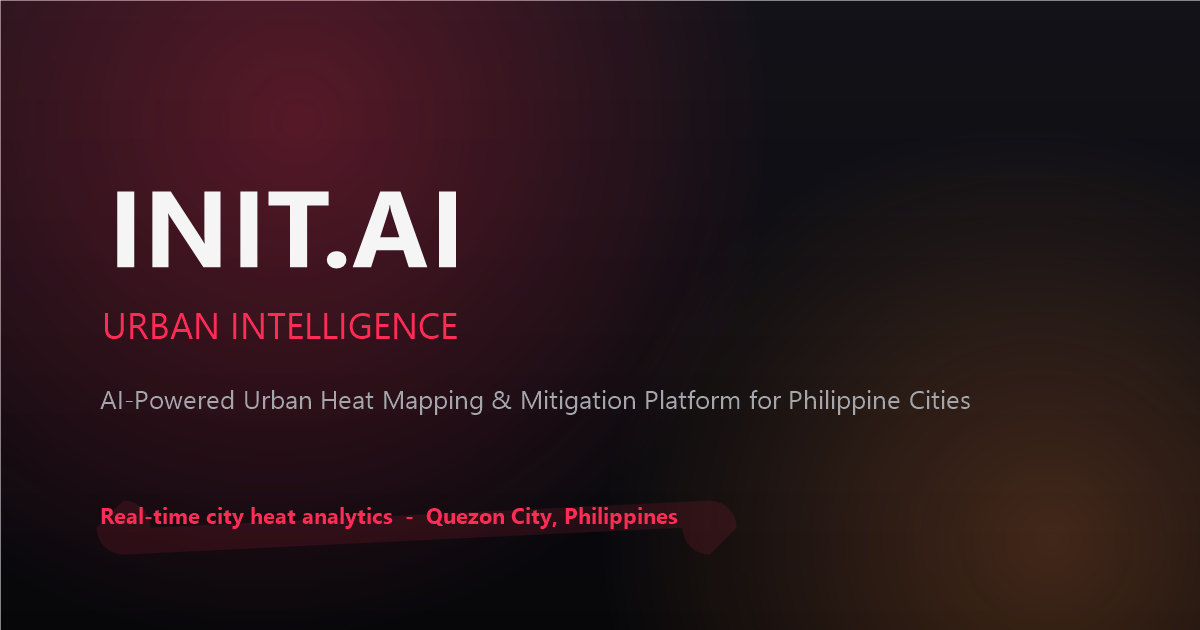
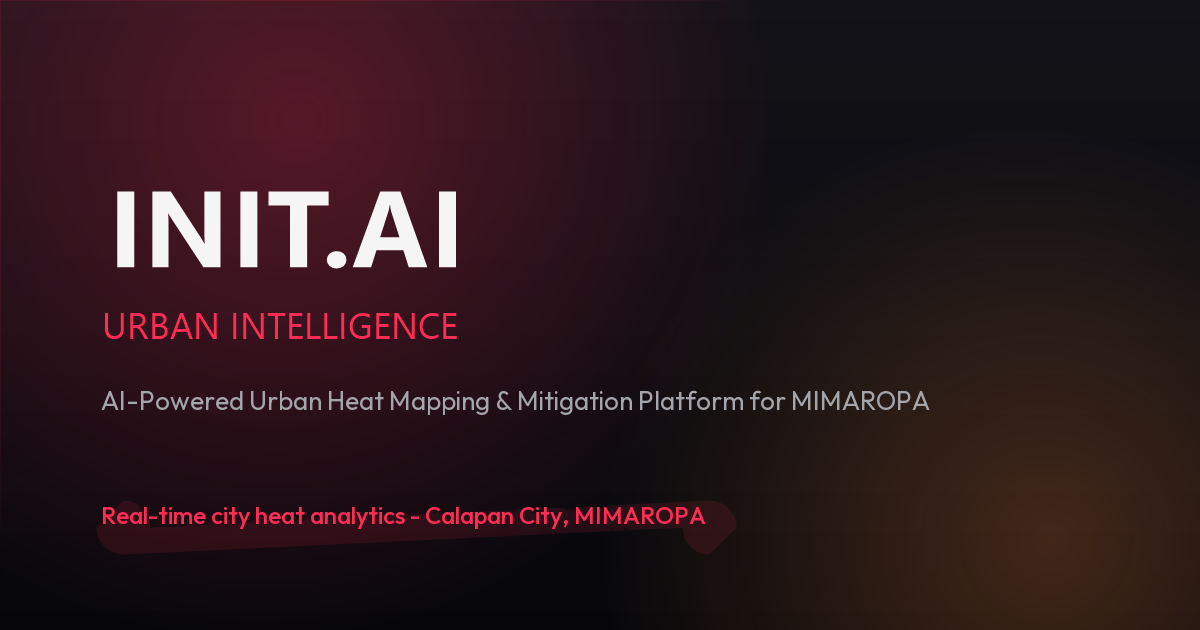
chore: update social preview image for MIMAROPA

Changed region(s): [[0.0925, 0.6032, 0.8017, 0.6635], [0.0925, 0.7841, 0.5858, 0.8444]]

diff --git a/index.html b/index.html
@@ -22,8 +22,8 @@
     <meta property="og:locale" content="en_US" />
     <meta property="og:title" content="INIT.AI | MIMAROPA Urban Heat Intelligence" />
     <meta property="og:description" content="AI-powered Urban Heat Mapping & Mitigation Platform for the MIMAROPA region." />
-    <meta property="og:image" content="https://mimaropa.initai.site/assets/images/preview_image.png" />
-    <meta property="og:image:secure_url" content="https://mimaropa.initai.site/assets/images/preview_image.png" />
+    <meta property="og:image" content="https://mimaropa.initai.site/assets/images/preview_image.png?v=2" />
+    <meta property="og:image:secure_url" content="https://mimaropa.initai.site/assets/images/preview_image.png?v=2" />
     <meta property="og:image:type" content="image/png" />
     <meta property="og:image:width" content="1200" />
     <meta property="og:image:height" content="630" />
@@ -32,7 +32,7 @@
     <meta name="twitter:card" content="summary_large_image" />
     <meta name="twitter:title" content="INIT.AI | MIMAROPA Urban Heat Intelligence" />
     <meta name="twitter:description" content="AI-powered Urban Heat Mapping & Mitigation Platform for the MIMAROPA region." />
-    <meta name="twitter:image" content="https://mimaropa.initai.site/assets/images/preview_image.png" />
+    <meta name="twitter:image" content="https://mimaropa.initai.site/assets/images/preview_image.png?v=2" />
     
     <!-- Apply the saved theme + accent before the app mounts to avoid a flash. -->
     <script>
